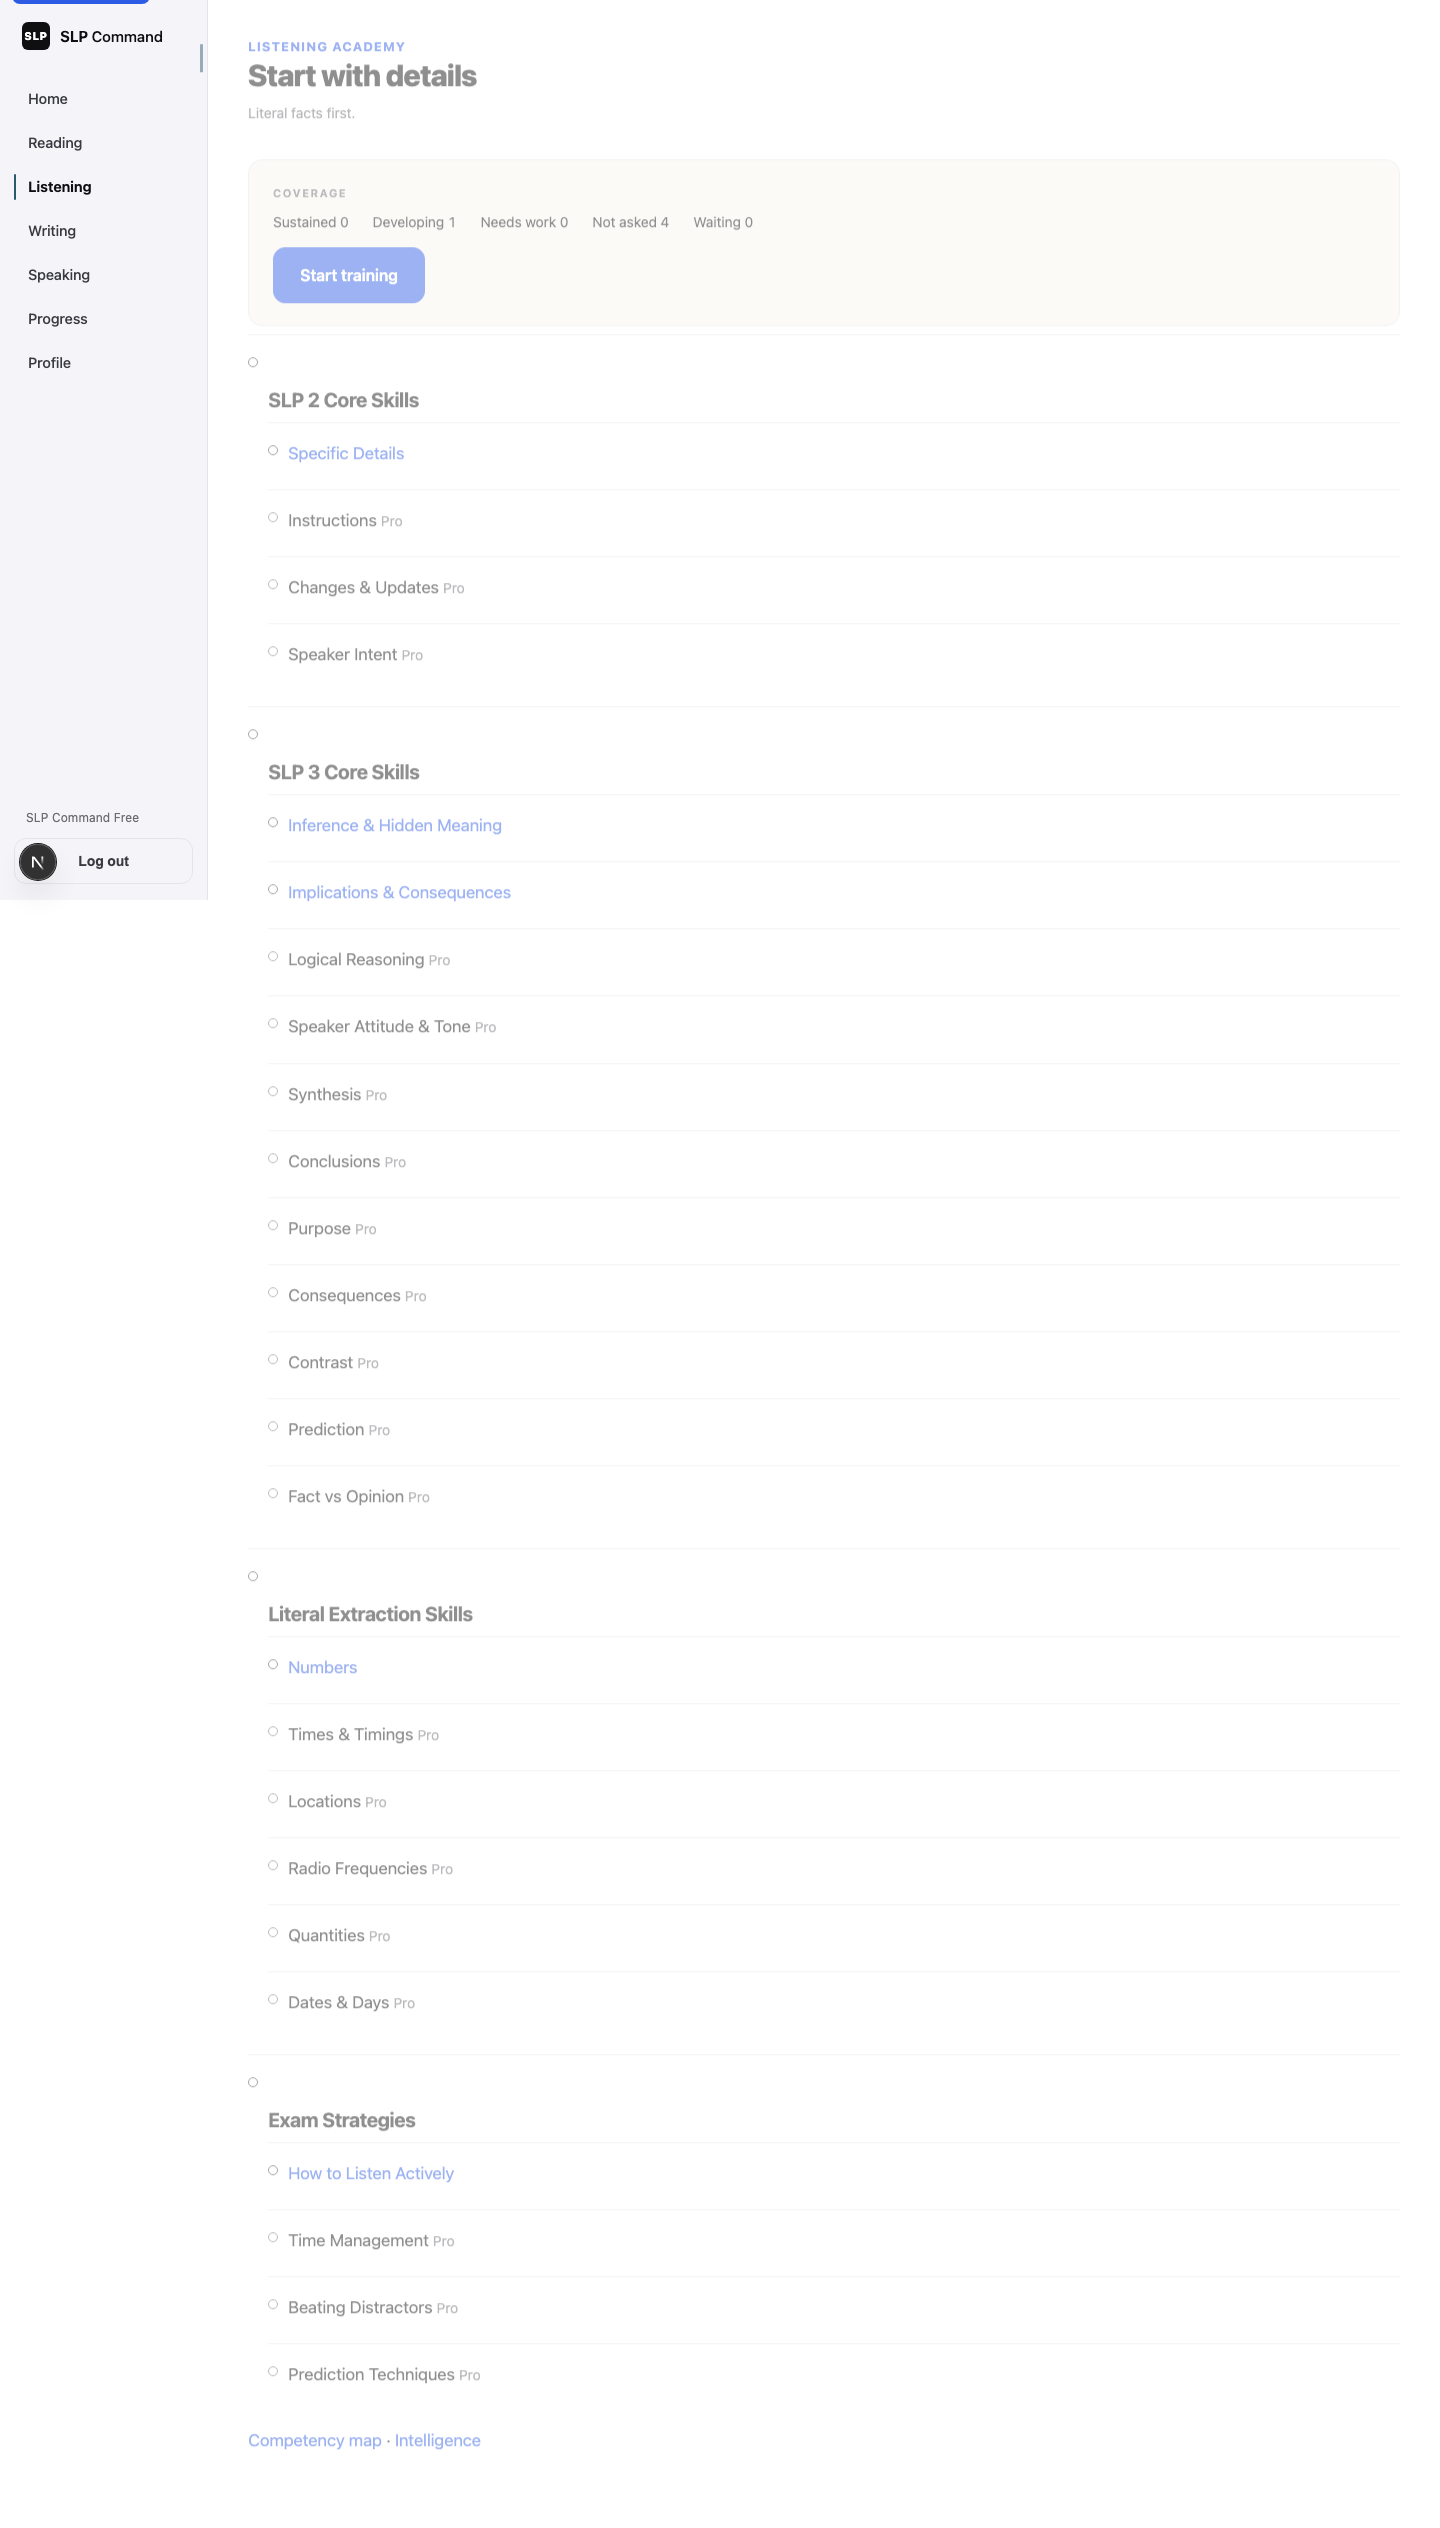
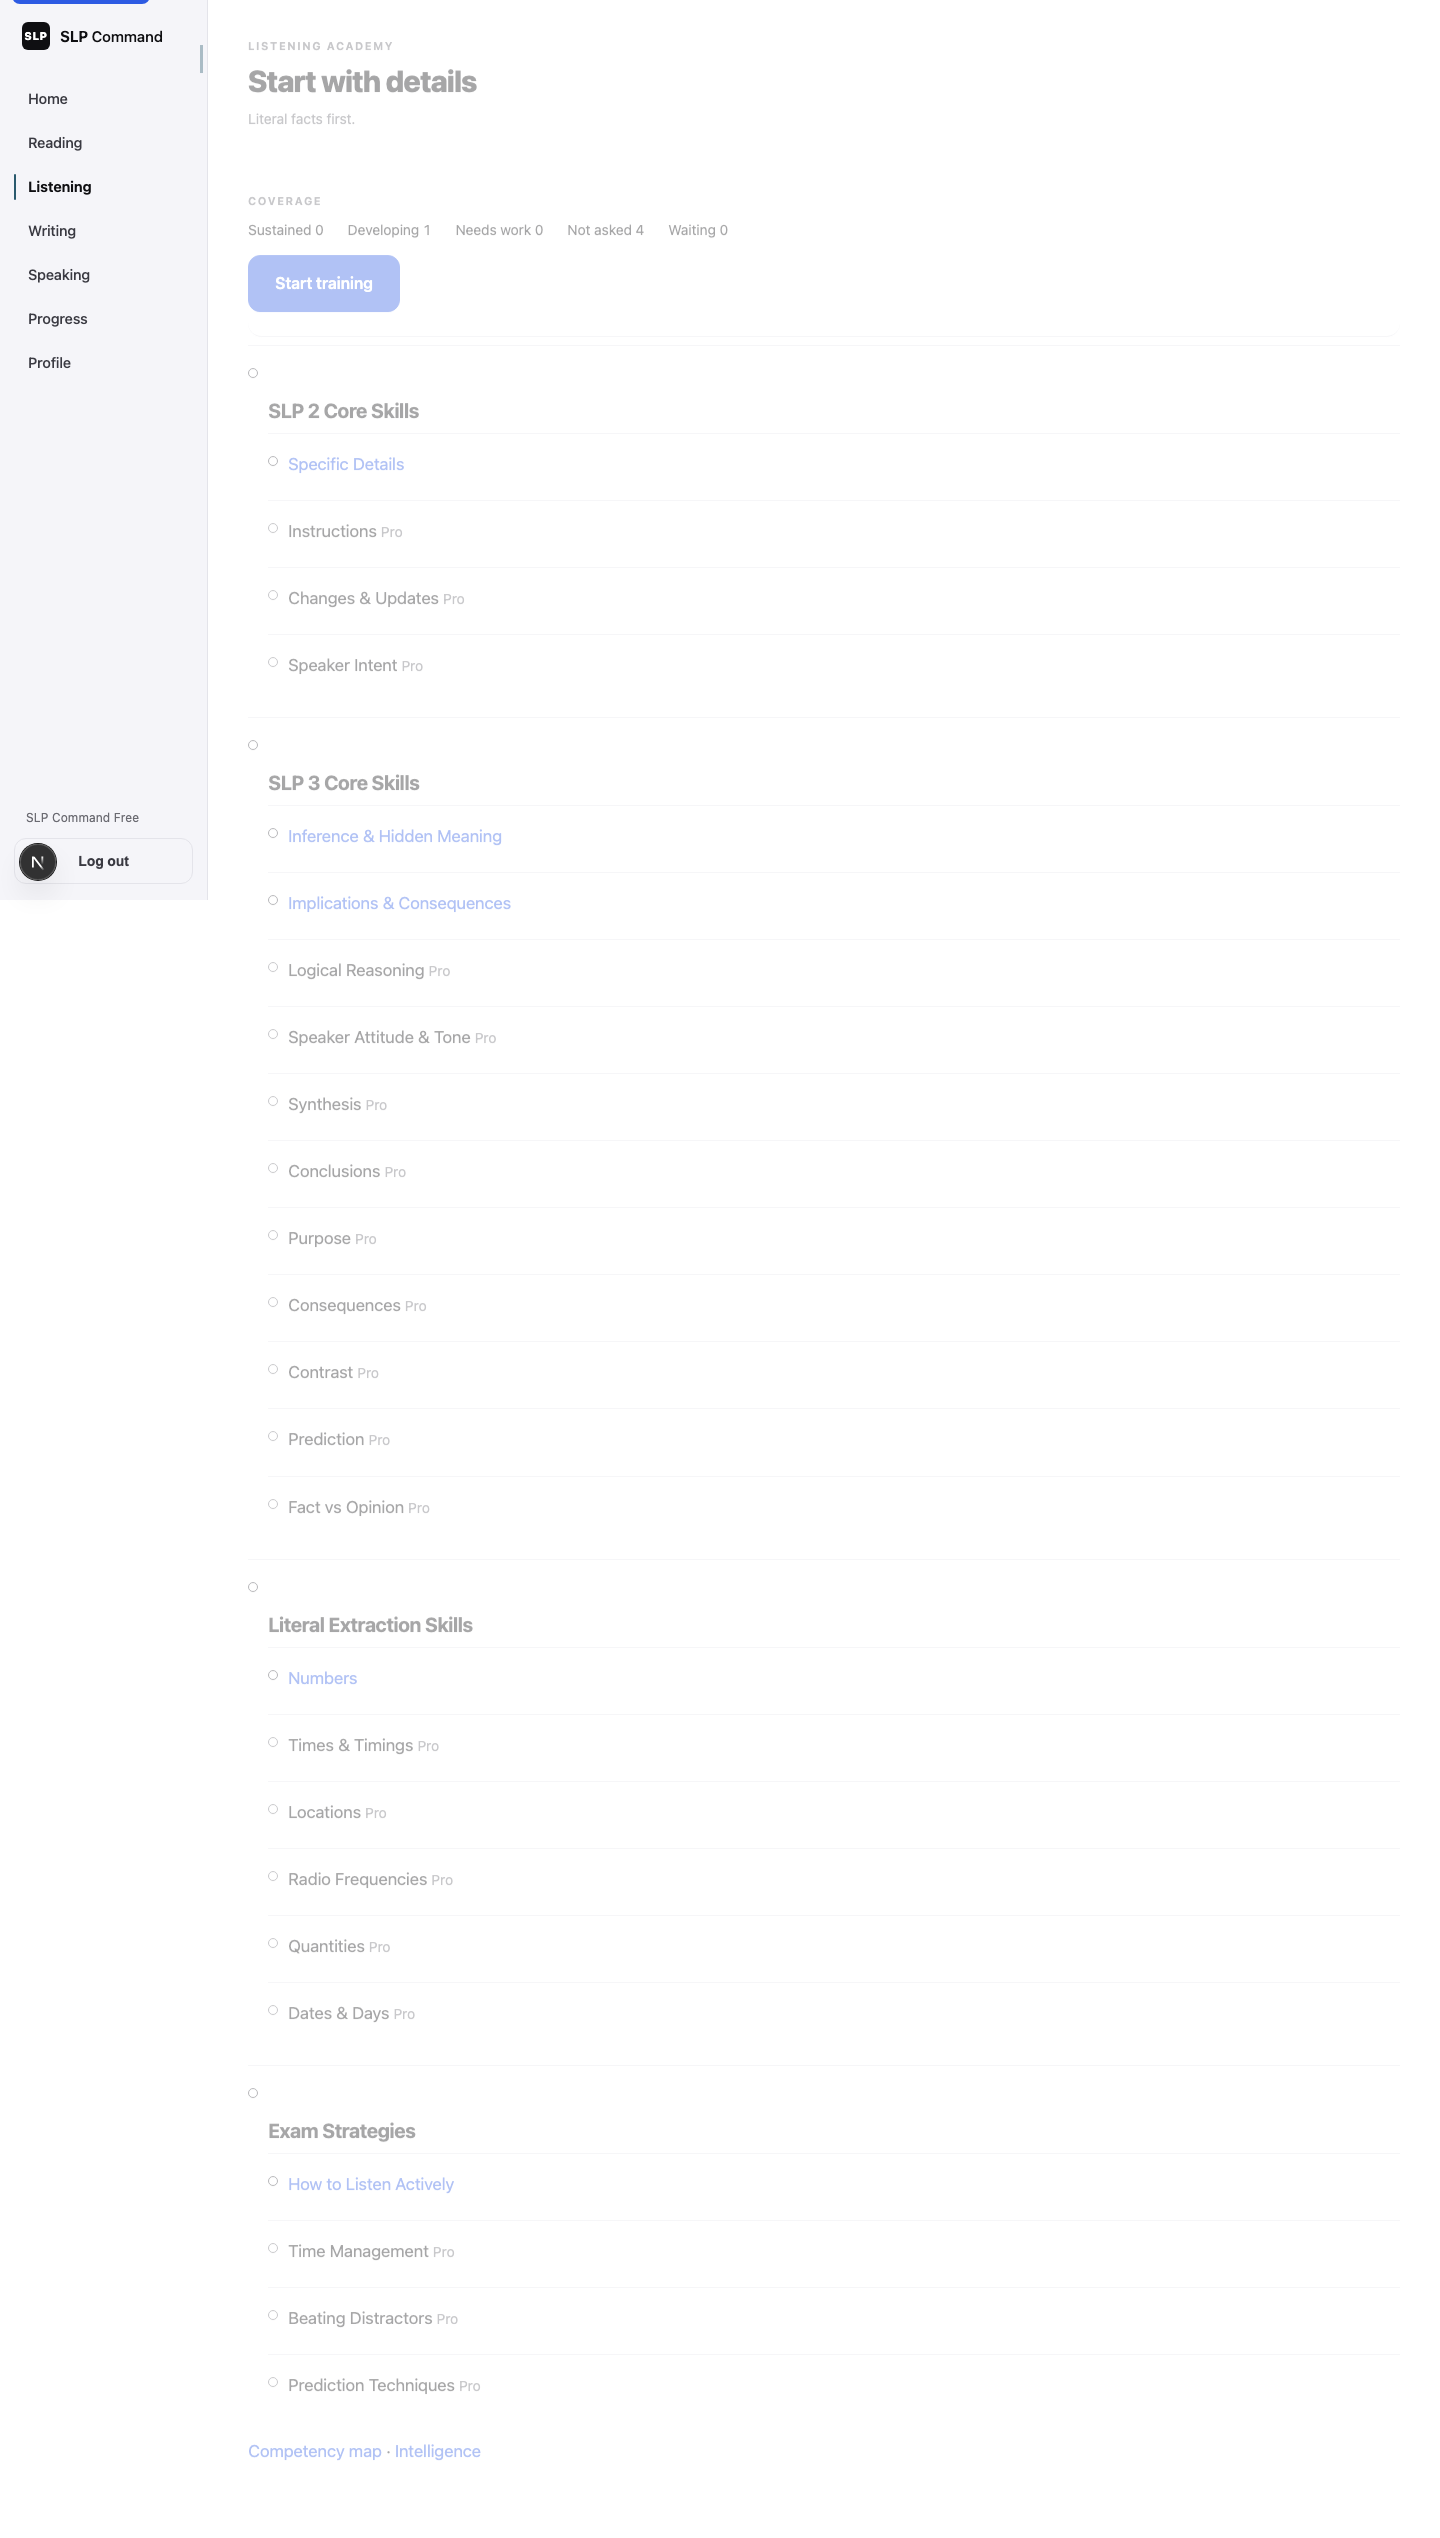
docs(web): record the product-experience rebuild and recapture QA
Document the listening root cause. Refresh visual-qa against the
stage language. Do not assign a numeric quality score.

diff --git a/tests/e2e/visual-qa.spec.ts b/tests/e2e/visual-qa.spec.ts
@@ -53,7 +53,7 @@ test.describe("visual QA — workspace", () => {
       { path: "/reading/academy", name: "reading-academy", text: "Recover inference" },
       { path: "/reading/intelligence", name: "reading-intelligence", text: "This is a readiness score, not Estimated SLP." },
       { path: "/listening", name: "listening-home", text: "Listening" },
-      { path: "/listening/practice", name: "listening-practice", text: "No transcript" },
+      { path: "/listening/practice", name: "listening-practice", text: "What did the speaker ask for?" },
       { path: "/listening/academy", name: "listening-academy", text: "Specific Details" },
       { path: "/listening/intelligence", name: "listening-intelligence", text: "Listening Intelligence" },
       { path: "/writing", name: "writing-home", text: "Writing" },

diff --git a/docs/SLP-COMMAND-WEB-DESIGN-MASTER.md b/docs/SLP-COMMAND-WEB-DESIGN-MASTER.md
@@ -113,7 +113,9 @@ Evidence: `docs/visual-qa/*`, live composition, `app/design-system.css`.
 | Perceived product maturity | 77 | 94 |
 | Perceived premium quality | 75 | 94 |
 
-**Final visual score: 94 / 100**
+**Final visual score (superseded): 94 / 100 — rejected as a product-experience score.**
+
+See **Product Experience Rebuild** below.
 
 94, not 95. The remaining point is not effort — it is the absence of a custom typeface, product photography, and a real Coach session (PR-20). Claiming 95 while those are missing would be dishonest. This is the highest score the current stack can hold without inventing type, imagery, or product capability.
 
@@ -550,3 +552,49 @@ Not separate GitHub PRs — coherent commits on `feature/slpcommand-web-platform
 6. `feat(web): redesign speaking and admin experiences`
 7. `test(web): add visual regression coverage`
 8. `refactor(web): unify premium design system`
+
+---
+
+## Product Experience Rebuild (2026-08-17)
+
+The 94/100 score is rejected as a measure of product experience. The preview still read as a competent SaaS dashboard: bordered modules, title + description + button, two-column information layouts.
+
+### Structural change
+
+New compositional language in `app/experience.css`:
+
+| Primitive | Replaces | Used on |
+|---|---|---|
+| Briefing | Home card stack | Home |
+| Skill brief | SkillLaunch card pair | Skill homes |
+| Document stage | Passage card | Reading practice |
+| Listen stage | Audio card + form | Listening practice |
+| Write stage | Prompt card + editor card | Writing practice |
+| Speak stage | Form + recorder | Speaking practice |
+| Decision desk | Equal intelligence cards | Intelligence |
+| Progress figure | Isolated SLP card | Progress |
+
+### Listening root cause
+
+Preview copy **“Couldn't load a clip. You were not charged.”** is thrown only when `decodeListeningItem` returns null after a **successful** HTTP response (`throw new Error("invalid_listening")`). It is not a quota, 404, or network message.
+
+Live iOS contract (`SLPListeningNextResponse`):
+
+```
+{ listening: { id, audioUrl, … }, question: { id, question, options } }
+```
+
+The web decoder treated `raw.question` as the clip, never read `listening.audioUrl`, and failed closed. The backend was serving a valid item. **Frontend decode bug.** Fixed to match iOS. Exam items now also read `item.listening.audioUrl` / `item.question`. Practice feedback now uses `POST /slp/answer` (`isCorrect`, `correctIndex`, `explanation`) because the GET question has no `correctIndex`.
+
+Mock backend was also missing `/api/listening/slp/next` and `/api/writing/prompts/next`, so local visual QA could not exercise those contracts.
+
+### Other routes
+
+| Route | Preview / mock finding |
+|---|---|
+| Reading practice | Live contract already decoded; mock has `/passage`. |
+| Writing practice | Decoder expects `writingPromptId`; mock lacked `/prompts/next` (now added). Live backend shape is the same iOS envelope. |
+| Speaking practice | Local prompts; evaluate is POST multipart. No clip-load path. |
+| Academy / Intelligence | SSR via proxy; copy comes from backend. No invented metrics. |
+
+### Do not claim a numeric quality score for this pass.
